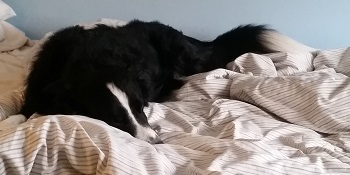
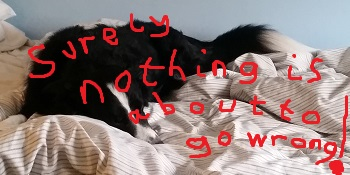
add the crunchy float dog, more work

diff --git a/code/NRNext/particles.cpp b/code/NRNext/particles.cpp
@@ -61,7 +61,7 @@ T integrate_dirac_cpu(auto&& func, tensor<T, 3> cell_pos, tensor<T, 3> dirac_loc
 }
 
 inline
-valuef integrate_dirac_gpu(auto&& func, const v3f& cell_pos, const v3f& dirac_location, const valuef& radius_cells, const valuef& scale)
+valuef integrate_dirac_gpu(auto&& func, v3f cell_pos, v3f dirac_location, valuef radius_cells, valuef scale)
 {
     using namespace single_source;
 
@@ -72,10 +72,8 @@ valuef integrate_dirac_gpu(auto&& func, const v3f& cell_pos, const v3f& dirac_lo
 
     #define GET_DIRAC_CORRECTED
     #ifdef GET_DIRAC_CORRECTED
-    tensor<valuef, 3> scale3 = {1, 1, 1};
-
-    auto im1 = cell_pos - scale3 / 2;
-    auto ip1 = cell_pos + scale3 / 2;
+    auto im1 = cell_pos - (v3f){1,1,1} / 2;
+    auto ip1 = cell_pos + (v3f){1,1,1} / 2;
     pin(im1);
     pin(ip1);
 
@@ -87,9 +85,7 @@ valuef integrate_dirac_gpu(auto&& func, const v3f& cell_pos, const v3f& dirac_lo
         valuef r = (pos - dirac_location).length();
         pin(r);
 
-        valuef frac = r / radius_cells;
-
-        valuef out = func(frac, radius_cells * scale);
+        valuef out = func(r / radius_cells, radius_cells * scale);
         pin(out);
         return out;
     }, 2, ip1, im1);
